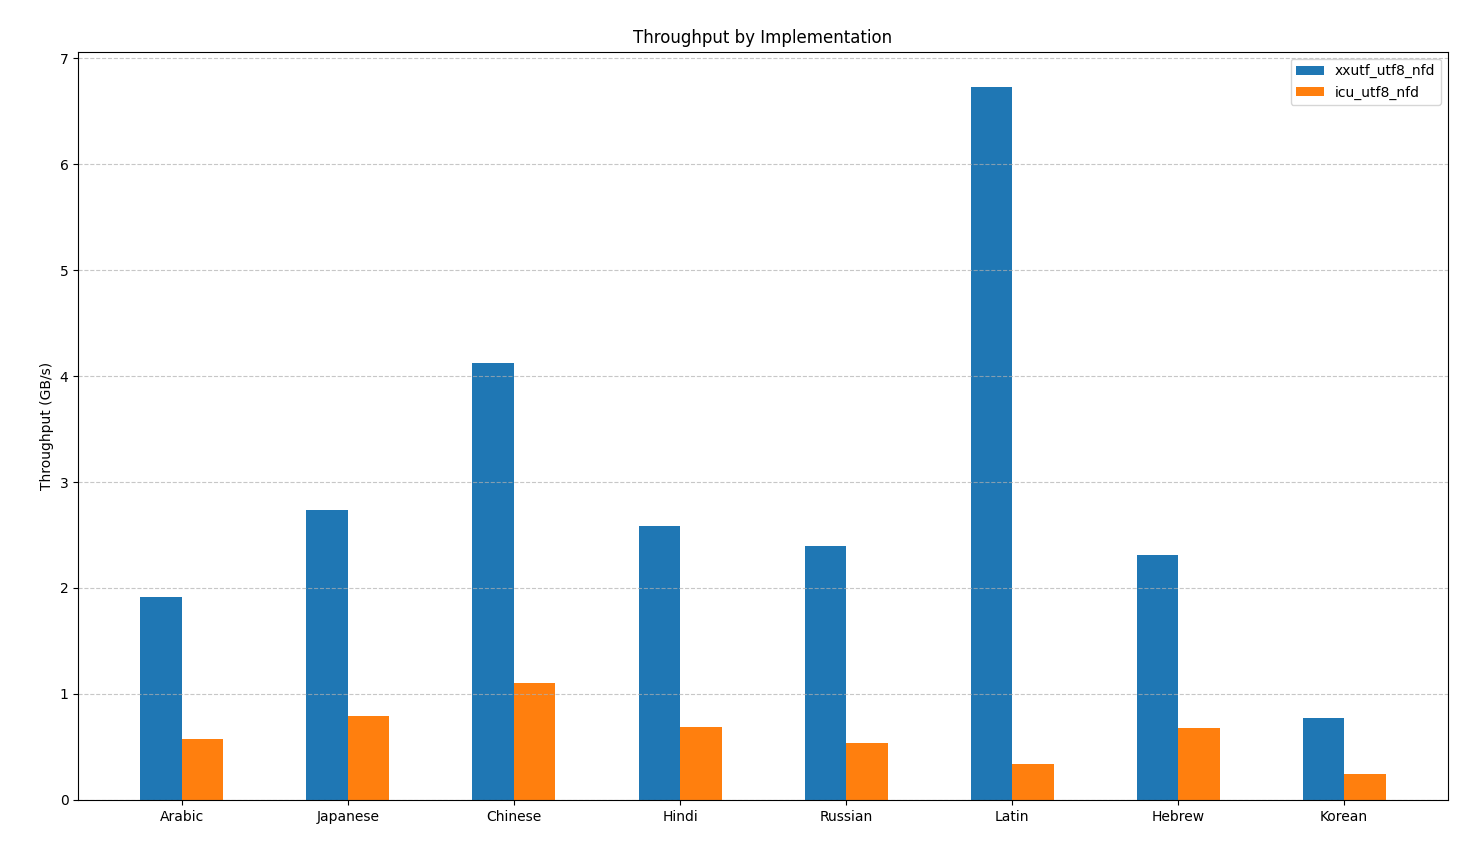
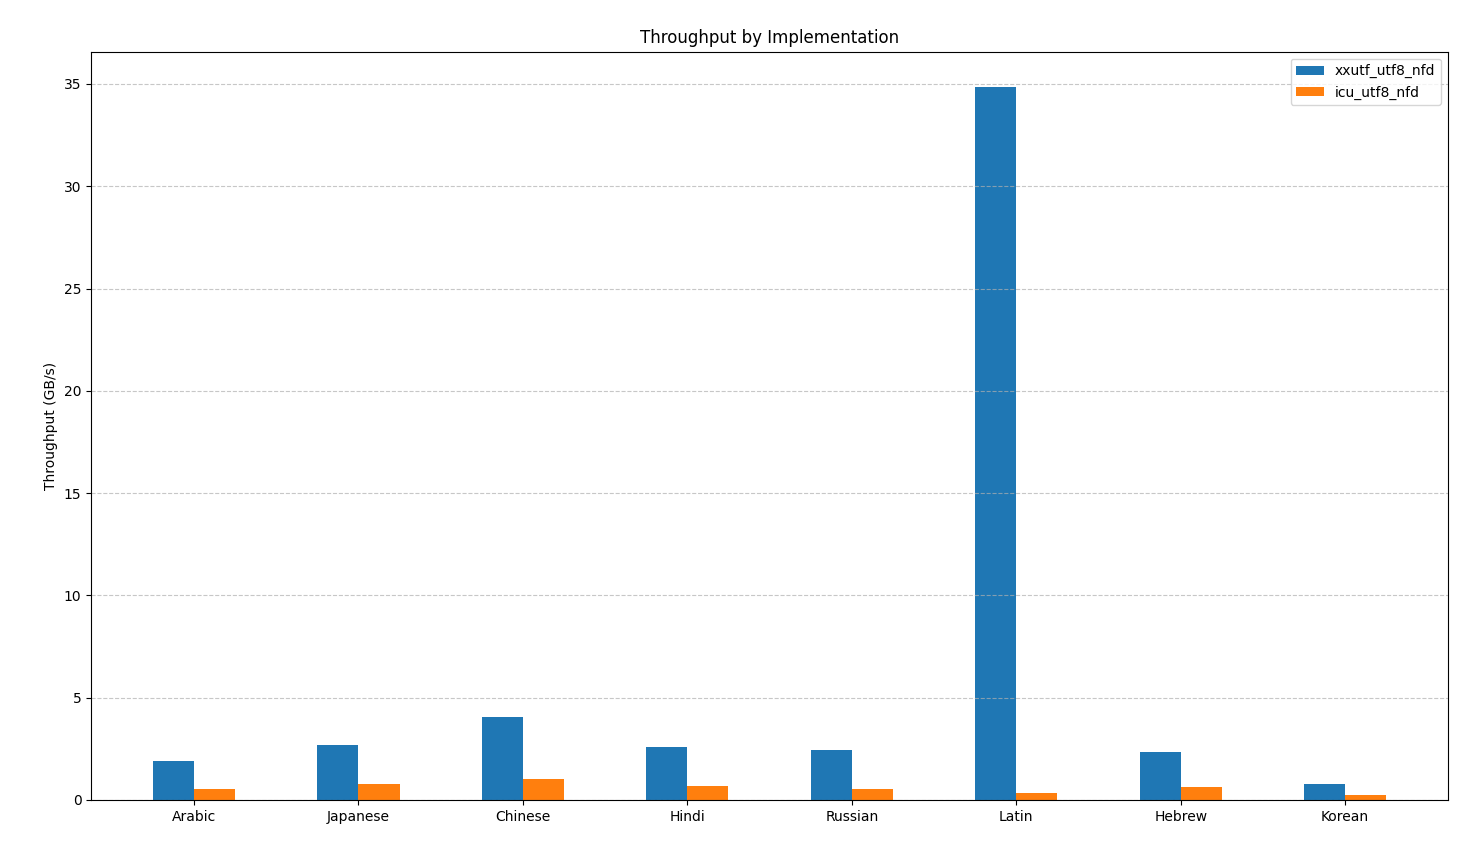
Improve ASCII normalization
ASCII normalization has improved by around 5x.

diff --git a/impl/neon/neon_normalize_utf8.c b/impl/neon/neon_normalize_utf8.c
@@ -860,6 +860,13 @@ static uint16x4_t neon_parse_4_123_utf8_wide(uint8x16_t in,
     size_t p = 0;                                                                   \
     while (p + 64 + SAFETY_MARGIN <= length) {                                      \
       uint64_t mask = neon_make_utf8_code_point_mask(input + p);                    \
+      /* ASCII fast path */                                                         \
+      if (mask == 0x7FFFFFFFFFFFFFFF) {                                             \
+        neon_memcpy_small(*out_ptr, input + p);                                     \
+        p += 63;                                                                    \
+        *out_ptr += 63;                                                             \
+        continue;                                                                   \
+      }                                                                             \
       size_t pmax = (p + 64) - 12;                                                  \
       while (p < pmax) {                                                            \
         size_t consumed = neon_normalize_masked_utf8_##decomp_form(                 \
@@ -888,6 +895,13 @@ static uint16x4_t neon_parse_4_123_utf8_wide(uint8x16_t in,
     size_t p = 0;                                                                   \
     while (p + 64 + SAFETY_MARGIN <= length) {                                      \
       uint64_t mask = neon_make_utf8_code_point_mask(input + p);                    \
+      /* ASCII fast path */                                                         \
+      if (mask == 0x7FFFFFFFFFFFFFFF) {                                             \
+        neon_memcpy_small(*out_ptr, input + p);                                     \
+        p += 63;                                                                    \
+        *out_ptr += 63;                                                             \
+        continue;                                                                   \
+      }                                                                             \
       size_t pmax = (p + 64) - 12;                                                  \
       while (p < pmax) {                                                            \
         size_t consumed = neon_normalize_masked_utf8_##comp_form(                   \
@@ -1000,6 +1014,11 @@ NEON_DEFINE_NORMALIZE_FUNCTIONS(nfkd, NFKD, nfkc, NFKC, true);
     uint8_t last_ccc = 0;                                                      \
     while (p + 64 + SAFETY_MARGIN <= length) {                                 \
       uint64_t mask = neon_make_utf8_code_point_mask(input + p);               \
+      /* ASCII fast path */                                                    \
+      if (mask == 0x7FFFFFFFFFFFFFFF) {                                        \
+        p += 63;                                                               \
+        continue;                                                              \
+      }                                                                        \
       size_t pmax = (p + 64) - 12;                                             \
       while (p < pmax) {                                                       \
         size_t consumed = neon_normalize_masked_utf8_##form##_check(           \

diff --git a/benchmarks/view_benchmark.py b/benchmarks/view_benchmark.py
@@ -39,7 +39,7 @@ def main():
     for i, implementation in enumerate(data):
         impl_name = implementation["name"]
         throughputs = [
-            to_gb_s(r["mean_ns"], r["input_size"]) for r in implementation["results"]
+            throughput(r["data"], r["input_size"]) for r in implementation["results"]
         ]
 
         # Calculate position offset for grouping
@@ -59,7 +59,7 @@ def main():
     plt.show()
 
 
-GB = 1_073_741_824.0
+GB = 1_073_741_824
 NANOSECONDS = 1e09
 
 
@@ -67,8 +67,9 @@ def to_gb_s(x_ns, size_bytes):
     return (size_bytes / x_ns) * (NANOSECONDS / GB)
 
 
-def sd_to_gb_s(sd_ns, size_bytes, mean_ns):
-    return size_bytes * (sd_ns / mean_ns**2)
+def throughput(data_ns, size_bytes):
+    throughput_data = [to_gb_s(x, size_bytes) for x in data_ns]
+    return sum(throughput_data) / len(throughput_data)
 
 
 if __name__ == "__main__":